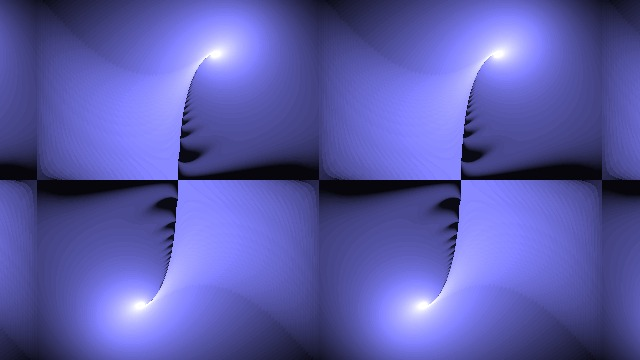
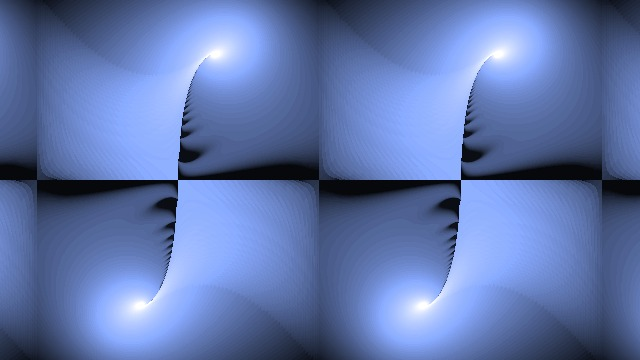
Use named palettes in example

diff --git a/examples/build.js b/examples/build.js
@@ -10,7 +10,7 @@ const fractals = {
     center: [-9.41, 0],
     iterations: 80,
     runawayDistance: 5.25,
-    palette: [[0, 0, 0], [128, 128, 255], [255, 255, 255]],
+    palette: 'snow',
   },
   star: {
     code: '0.8i0.3 * z + z/atanh(z^-6)',
@@ -18,7 +18,7 @@ const fractals = {
     center: [0, 0],
     iterations: 64,
     runawayDistance: 10,
-    palette: [[0, 0, 0], [192, 32, 32], [255, 255, 255]],
+    palette: 'red',
   },
   tiles: {
     code: 'log cosh(0i1.02 * z) + -5.61i0.2',
@@ -26,7 +26,7 @@ const fractals = {
     center: [0, 0],
     iterations: 64,
     runawayDistance: 7,
-    palette: [[0, 0, 0], [0, 192, 0], [255, 255, 255]],
+    palette: 'green',
   },
   field: {
     code: 'z + 0.25*z*atanh(z^8) - 0i0.33',
@@ -34,7 +34,15 @@ const fractals = {
     center: [0, 3.292],
     iterations: 48,
     runawayDistance: 10,
-    palette: [[0, 0, 0], [255, 192, 0], [255, 255, 255]],
+    palette: 'gold',
+  },
+  cup: {
+    code: 'z*(1.2 + asinh z^-4) + 0i-0.34',
+    height: 0.275,
+    center: [0, 0.843],
+    iterations: 48,
+    runawayDistance: 6,
+    palette: 'tree',
   },
 };
 
